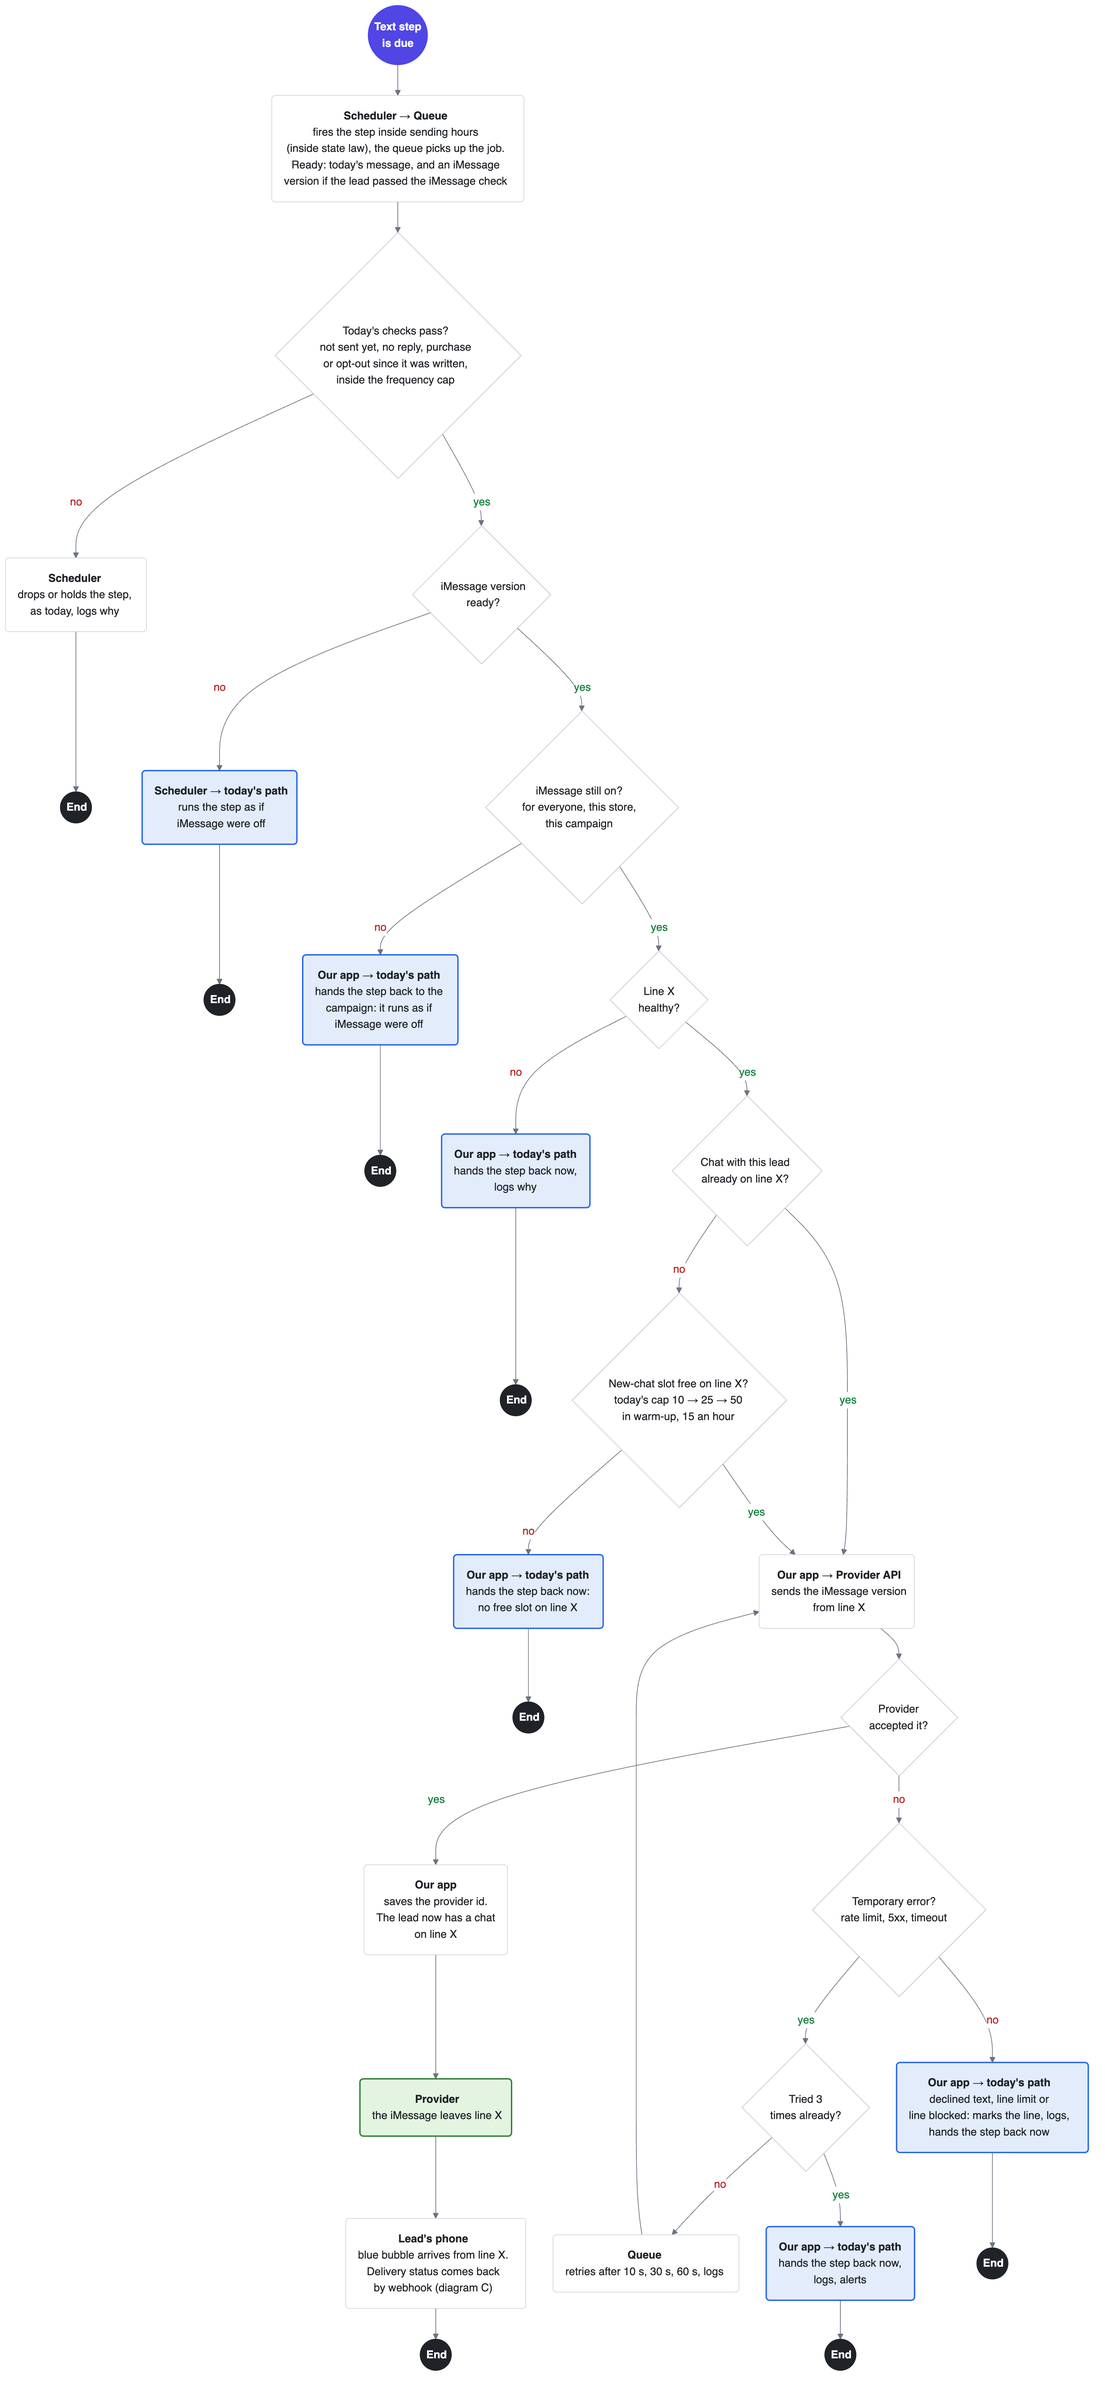
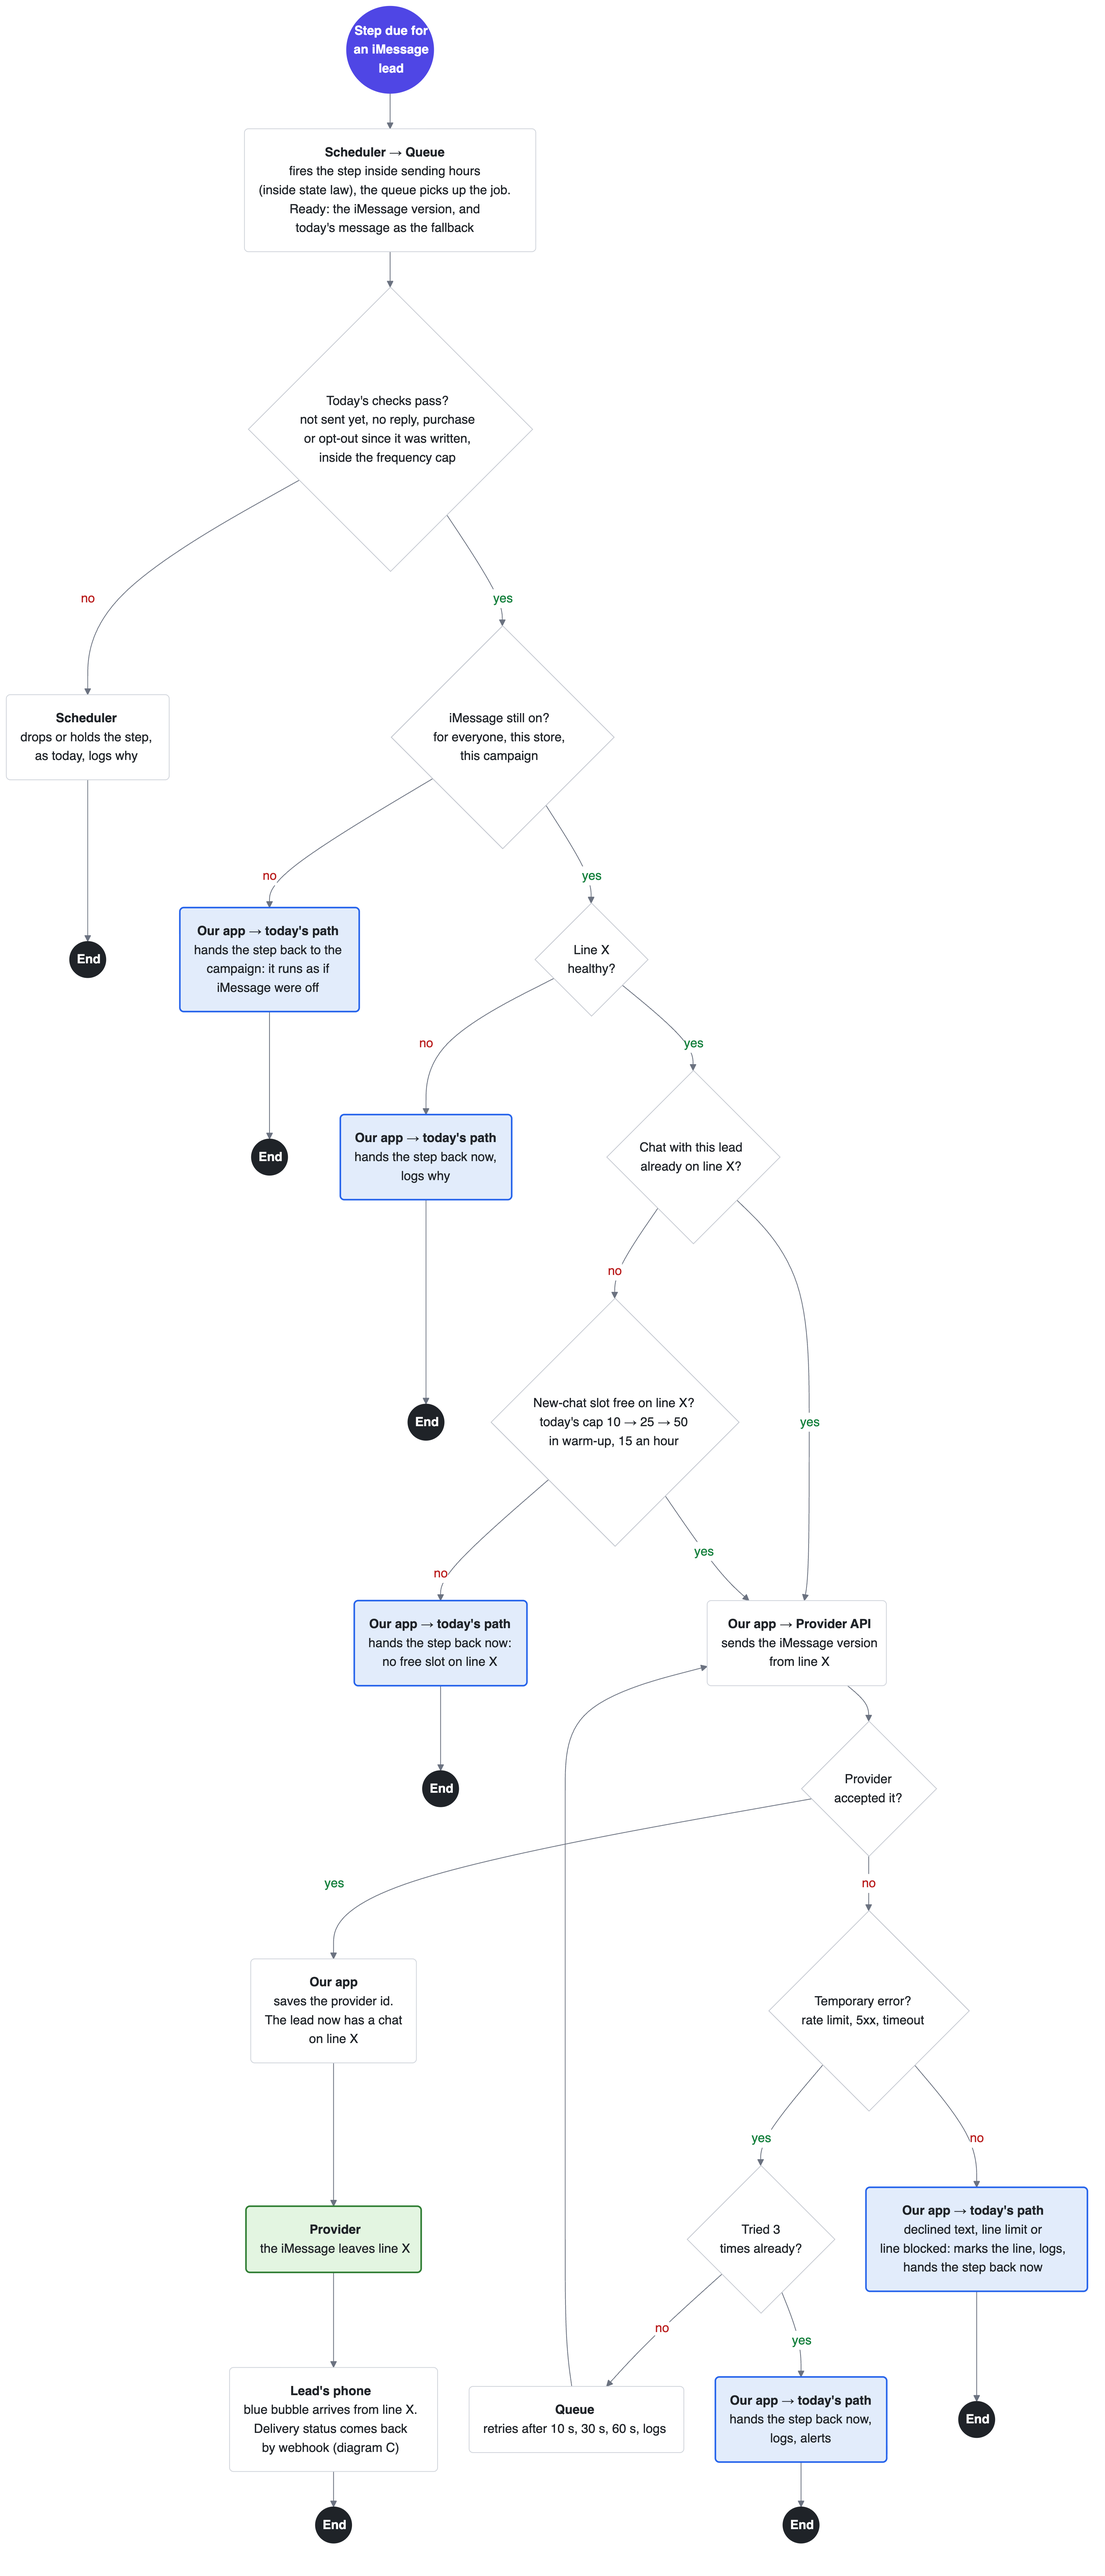
Diagram B starts only for iMessage leads; the rest never enter it
The iMessage check before writing already decides who gets iMessage,
so B no longer asks again.

diff --git a/diagrams.md b/diagrams.md
@@ -4,12 +4,11 @@ Back to the plan: [README.md](README.md)
 
 **Why B and C:** messages leave a number and replies come back only in these two, so most failures happen here. A is manual in v1, and D is covered by the plan's section 3.
 
-**Where this sits in today's flow:** lead joins a campaign → before each text step, the **iMessage check** → AI writes today's message as usual, plus an iMessage version if the lead can get it → scheduler: step is due → **B:** send-time checks, then iMessage from line X, or the step goes back to the campaign → **C:** statuses and replies → AI answers. Leads who can't get iMessage keep today's path.
+**Where this sits in today's flow:** lead joins a campaign → before each text step, the **iMessage check** → AI writes today's message as usual, plus an iMessage version if the lead can get it → scheduler: step is due → **B**, only for leads who passed: send-time checks, then iMessage from line X, or the step goes back to the campaign → **C:** statuses and replies → AI answers. Leads who can't get iMessage keep today's path.
 
 **How to read:**
 - 🟣 start (what triggers it) · ⚫ end, one per branch · ◇ a question, with yes and no arrows · ▢ an action, **bold** = who does it · 🟩 an iMessage leaves line X · 🟦 today's path: the step runs as if iMessage were off, the campaign's way, never from line X
 - **Today's path** (🟦 blue boxes): what Outcraft does today, without iMessage. The step goes back to the campaign and runs as if iMessage were off, with the campaign's own channel, settings, frequency caps and checks. Often that's SMS from the store's own number, sometimes a call. The campaign decides, not B. The message is already written, so it goes at once, with no AI call.
-  - **Scheduler → today's path:** the lead never got an iMessage version (Android, no consent). Nothing changes for them.
   - **Our app → today's path:** iMessage was possible, but a send-time check or the provider said no. Our app hands the step back at once and logs why.
   - **AI → today's path** (diagram C): line X fails mid-chat, so the AI rewrites its answer for the campaign's other text channel.
 - **Who does it:** our app, the scheduler, the queue, the AI, the provider, or the lead's phone.
@@ -26,22 +25,22 @@ Back to the plan: [README.md](README.md)
 
 ---
 
-## B. Sending a message: a step is due, up to the message leaving a number (or not)
+## B. Sending a message: a step is due for an iMessage lead, up to the message leaving a number (or not)
 
 **Before B, when the AI writes the step** (not drawn, it's one check):
 1. **iMessage check:** iMessage on for the store and the campaign, a US/CA number, texting consent, not opted out, passes Do Not Call, not in FL, MD or OK during the pilot, the lookup says iMessage (cached 30 days), the iMessage group of the pilot, not handed back to today's path earlier in this campaign, and fewer than 2 unanswered iMessages. Any error, timeout or unknown means no.
 2. **The AI writes today's message** as usual (for an iMessage step: the message for its fallback, none for a call). If the check passed, it also writes an **iMessage version**: a short question with no link until the lead has written to our line, then the full message.
 3. **Both pass our content check,** or the AI rewrites them once. Still failing: nothing is sent, and the team is alerted.
 
+**Leads who fail the check** (Android, no consent, outside the pilot group) get only today's message. The step runs as today and never enters B.
+
 ```mermaid
 %%{init: {"theme": "base", "themeVariables": {"fontFamily": "Helvetica, Arial, sans-serif", "primaryColor": "#ffffff", "primaryBorderColor": "#d0d4db", "primaryTextColor": "#1f2328", "lineColor": "#6b7280", "edgeLabelBackground": "#ffffff"}, "themeCSS": "foreignObject { overflow: visible; } .nodeLabel { white-space: nowrap; }", "flowchart": {"curve": "basis", "nodeSpacing": 40, "rankSpacing": 45, "padding": 18}}}%%
 flowchart TD
-    S(("<b>Text step<br/>is due</b>")) --> A1("<b>Scheduler → Queue</b><br/>fires the step inside sending hours<br/>(inside state law), the queue picks up the job.<br/>Ready: today's message, and an iMessage<br/>version if the lead passed the iMessage check")
+    S(("<b>Step due for<br/>an iMessage<br/>lead</b>")) --> A1("<b>Scheduler → Queue</b><br/>fires the step inside sending hours<br/>(inside state law), the queue picks up the job.<br/>Ready: the iMessage version, and<br/>today's message as the fallback")
     A1 --> Q0{"Today's checks pass?<br/>not sent yet, no reply, purchase<br/>or opt-out since it was written,<br/>inside the frequency cap"}
     Q0 -- no --> X3("<b>Scheduler</b><br/>drops or holds the step,<br/>as today, logs why") --> E0(("<b>End</b>"))
-    Q0 -- yes --> QV{"iMessage version<br/>ready?"}
-    QV -- no --> SMS0("<b>Scheduler → today's path</b><br/>runs the step as if<br/>iMessage were off"):::sms --> E1(("<b>End</b>"))
-    QV -- yes --> QI{"iMessage still on?<br/>for everyone, this store,<br/>this campaign"}
+    Q0 -- yes --> QI{"iMessage still on?<br/>for everyone, this store,<br/>this campaign"}
     QI -- no --> SMS1("<b>Our app → today's path</b><br/>hands the step back to the<br/>campaign: it runs as if<br/>iMessage were off"):::sms --> E2(("<b>End</b>"))
     QI -- yes --> Q7{"Line X<br/>healthy?"}
     Q7 -- no --> SMS2("<b>Our app → today's path</b><br/>hands the step back now,<br/>logs why"):::sms --> E4(("<b>End</b>"))
@@ -68,11 +67,11 @@ flowchart TD
     classDef out fill:#e3f5e1,stroke:#2e7d32,stroke-width:2px,color:#1f2328
     classDef sms fill:#e2ecfb,stroke:#2563eb,stroke-width:2px,color:#1f2328
     class S start
-    class E0,E1,E2,E4,E5,E6,E7,E8 finish
-    class Q0,QV,QI,Q7,Q6,Q8,Q13,Q14,Q15 decision
+    class E0,E2,E4,E5,E6,E7,E8 finish
+    class Q0,QI,Q7,Q6,Q8,Q13,Q14,Q15 decision
     class A1,X3,SEND,OK2,PH,R4 action
-    linkStyle 4,7,10,13,14,16,20,25,28 color:#15803d,stroke:#6b7280
-    linkStyle 2,5,8,11,15,17,24,26,30 color:#b91c1c,stroke:#6b7280
+    linkStyle 4,7,10,11,13,17,22,25 color:#15803d,stroke:#6b7280
+    linkStyle 2,5,8,12,14,21,23,27 color:#b91c1c,stroke:#6b7280
 ```
 
 🟣 start (what triggers it) · ⚫ end, one per branch · ◇ a question, with yes and no arrows · ▢ an action, **bold** = who does it · 🟩 an iMessage leaves line X · 🟦 today's path: the step runs as if iMessage were off, the campaign's way, never from line X
